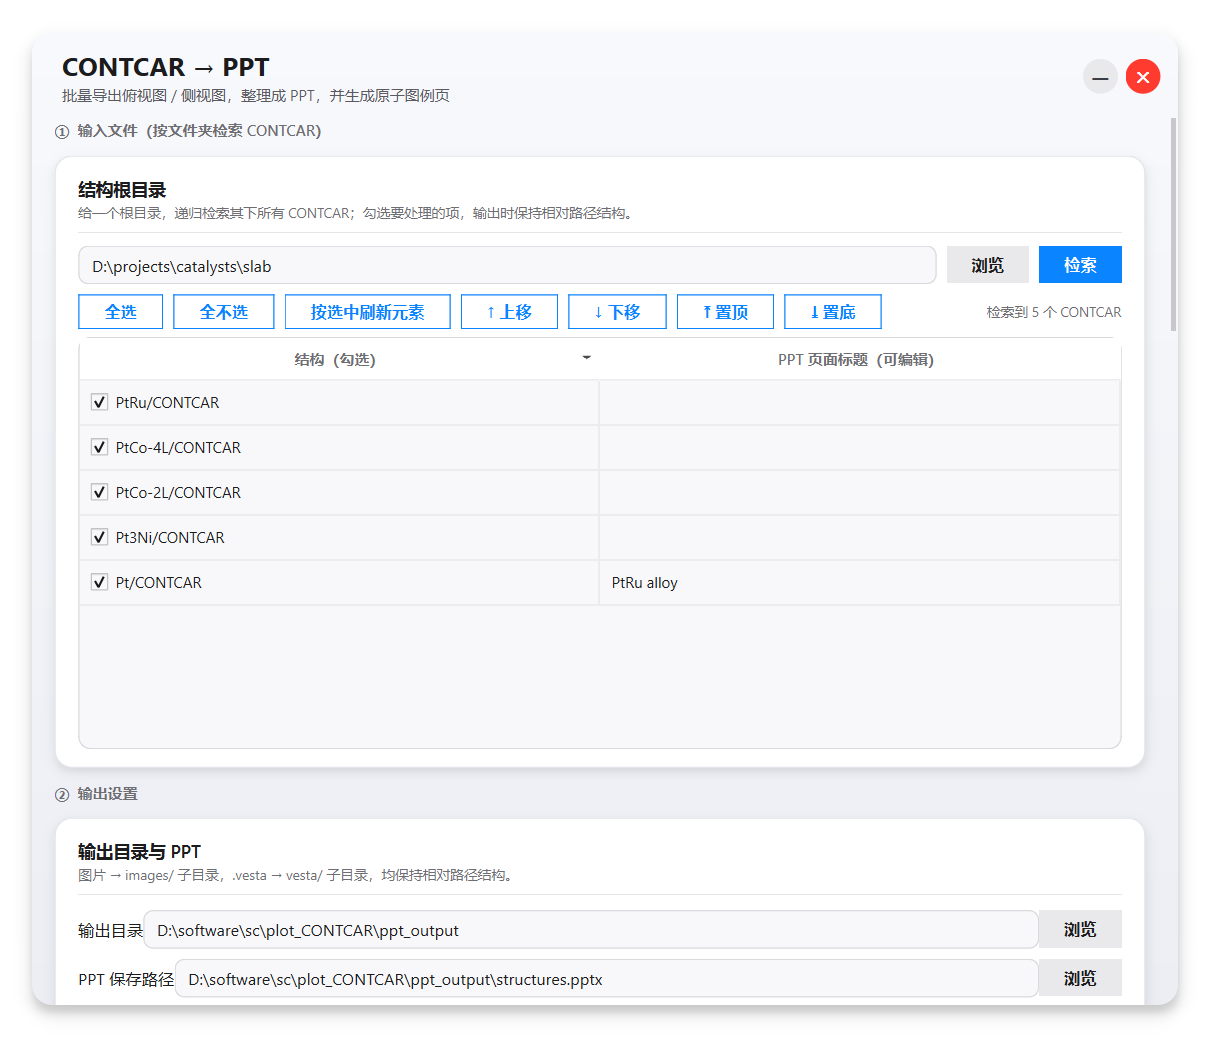
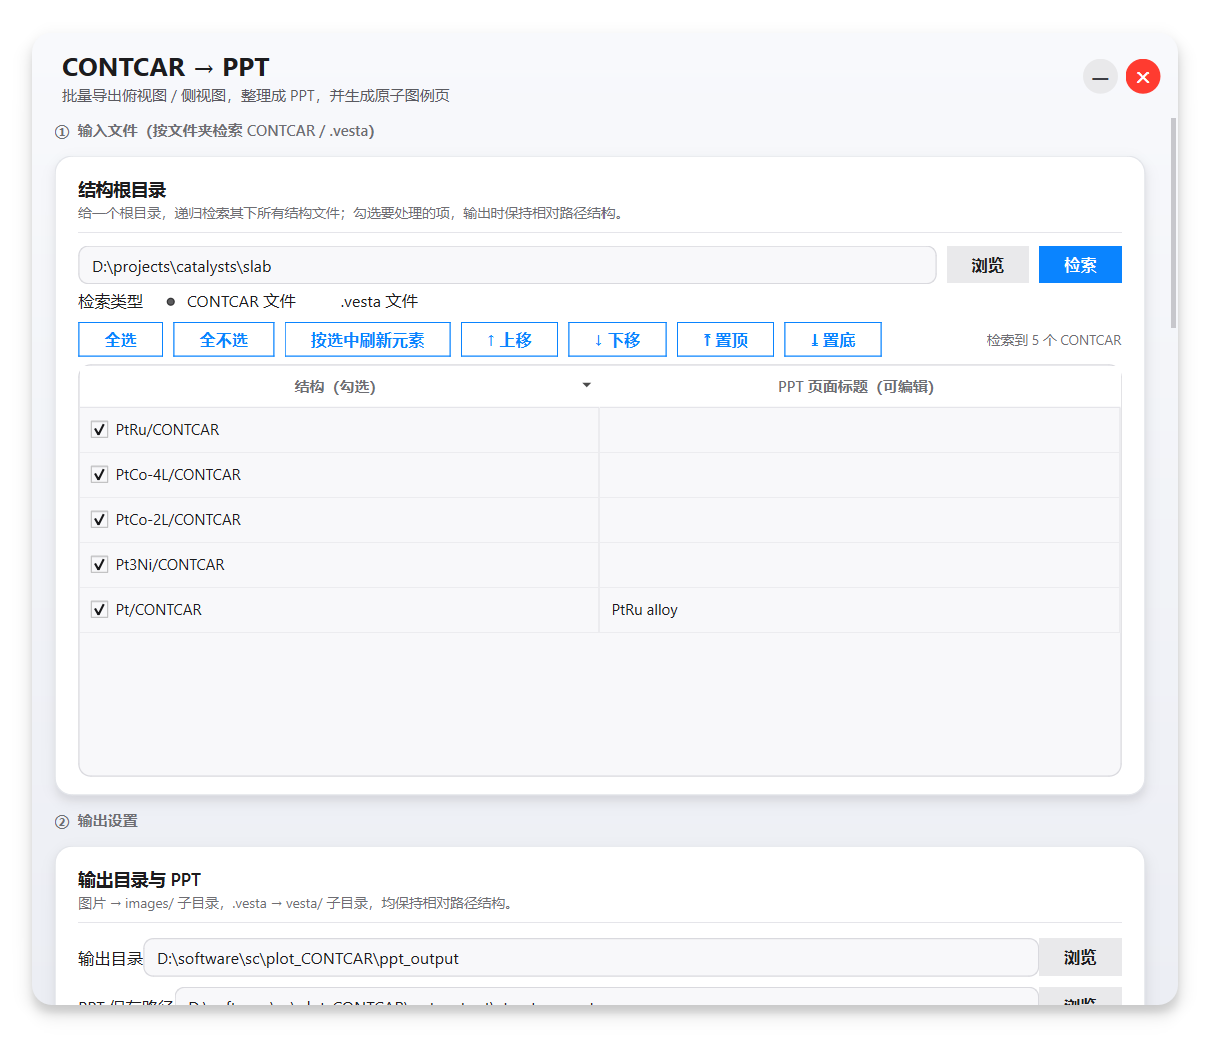
feat(gui): 检索支持 .vesta 单选；原子样式启用开关；窗口置顶；暂停/继续按钮

diff --git a/vesta_gui.py b/vesta_gui.py
@@ -69,6 +69,7 @@ from PySide6.QtWidgets import (
     QProgressBar, QPlainTextEdit, QFileDialog, QMessageBox, QColorDialog,
     QListWidget, QListWidgetItem, QTableWidget, QTableWidgetItem, QHeaderView,
     QAbstractItemView, QAbstractButton, QGraphicsDropShadowEffect, QSizePolicy,
+    QRadioButton, QButtonGroup,
 )
 
 # 复用核心工具
@@ -543,7 +544,7 @@ def add_legend_slide(prs, blank, legend, s):
 # ---------------------------------------------------------------------------
 # 批量处理（无界面依赖）
 # ---------------------------------------------------------------------------
-def run_batch(s, log, progress, stop_event):
+def run_batch(s, log, progress, stop_event, pause_event=None):
     """执行批量出图 + PPT 生成。log(level,msg) / progress(0..1) 为回调。"""
     out_dir = Path(s["out_dir"]).expanduser()
     img_dir = out_dir / "images"
@@ -589,9 +590,16 @@ def run_batch(s, log, progress, stop_event):
         done = 0
         ext = s["img_fmt"].lstrip(".")
 
+        def wait_pause():
+            """暂停时在此等待（可被停止打断）。"""
+            while (pause_event is not None and pause_event.is_set()
+                   and not stop_event.is_set()):
+                time.sleep(0.2)
+
         for idx, item in enumerate(s["files"]):
             if stop_event.is_set():
                 return False, "已停止（未生成完整 PPT）。"
+            wait_pause()
             src = Path(item["path"])
             rel_sub = item.get("rel", "")            # 相对子目录（posix，可为空）
             stem = item.get("stem") or src.stem or "structure"
@@ -605,7 +613,10 @@ def run_batch(s, log, progress, stop_event):
             log("info", f"[{idx+1}/{n_files}] 处理 {label}")
             try:
                 base_vesta = tmpdir / f"{idx}.vesta"
-                v.contcar_to_vesta(src, base_vesta)
+                if src.suffix.lower() == ".vesta":
+                    shutil.copy(src, base_vesta)          # 已是 .vesta，直接使用
+                else:
+                    v.contcar_to_vesta(src, base_vesta)
                 if base_modify:
                     v.modify_vesta(base_vesta, **base_modify)
 
@@ -653,6 +664,7 @@ def run_batch(s, log, progress, stop_event):
                     done += 1
                     progress(done / total)
 
+                wait_pause()
                 if s["do_side"] and not stop_event.is_set():
                     vf = tmpdir / f"{idx}_side.vesta"
                     shutil.copy(base_vesta, vf)
@@ -699,6 +711,9 @@ QLabel#CardTitle { font-size: 14px; font-weight: 600; color: #1C1C1E; background
 QLabel#CardSubtitle { font-size: 11px; color: #6E6E73; background: transparent; }
 QLabel#FieldLabel { font-size: 13px; color: #1C1C1E; background: transparent; }
 QLabel#HintLabel { font-size: 11px; color: #6E6E73; background: transparent; }
+
+QRadioButton { color: #1C1C1E; font-size: 13px; background: transparent; spacing: 6px; }
+QRadioButton::indicator { width: 15px; height: 15px; }
 
 QFrame#Card { background: #FFFFFF; border: 1px solid #E3E5EA; border-radius: 14px; }
 
@@ -947,15 +962,17 @@ class Worker(QObject):
     progress = Signal(float)
     done = Signal(bool, str)
 
-    def __init__(self, settings, stop_event):
+    def __init__(self, settings, stop_event, pause_event=None):
         super().__init__()
         self.settings = settings
         self.stop_event = stop_event
+        self.pause_event = pause_event
 
     @Slot()
     def run(self):
         try:
-            ok, msg = run_batch(self.settings, self._log, self._progress, self.stop_event)
+            ok, msg = run_batch(self.settings, self._log, self._progress,
+                                self.stop_event, self.pause_event)
         except Exception as exc:  # noqa: BLE001
             self._log("err", f"发生错误：{exc}")
             self._log("err", traceback.format_exc())
@@ -975,11 +992,13 @@ class Worker(QObject):
 class MainWindow(QWidget):
     def __init__(self):
         super().__init__()
-        self.setWindowFlags(Qt.FramelessWindowHint | Qt.Window)
+        self.setWindowFlags(Qt.FramelessWindowHint | Qt.Window
+                            | Qt.WindowStaysOnTopHint)
         self.setAttribute(Qt.WA_TranslucentBackground)
         self.resize(968, 830)
 
         self.stop_event = threading.Event()
+        self.pause_event = threading.Event()
         self.running = False
         self.thread = None
         self.worker = None
@@ -1099,12 +1118,12 @@ class MainWindow(QWidget):
     # ------------------------------------------------------------------ #
     def _build_sections(self):
         # ① 输入文件
-        self._section_label("①  输入文件（按文件夹检索 CONTCAR）")
+        self._section_label("①  输入文件（按文件夹检索 CONTCAR / .vesta）")
         card = self._card("结构根目录",
-                          "给一个根目录，递归检索其下所有 CONTCAR；勾选要处理的项，"
+                          "给一个根目录，递归检索其下所有结构文件；勾选要处理的项，"
                           "输出时保持相对路径结构。")
         in_row = QHBoxLayout()
-        in_row.setContentsMargins(18, 10, 18, 4)
+        in_row.setContentsMargins(18, 10, 18, 2)
         in_row.setSpacing(8)
         self.input_root = QLineEdit()
         self.input_root.setPlaceholderText("选择或粘贴一个文件夹路径…")
@@ -1116,6 +1135,25 @@ class MainWindow(QWidget):
         b_scan.clicked.connect(self._scan)
         in_row.addWidget(b_scan)
         card.layout().addLayout(in_row)
+
+        type_row = QHBoxLayout()
+        type_row.setContentsMargins(18, 2, 18, 4)
+        type_row.setSpacing(14)
+        tlbl = QLabel("检索类型")
+        tlbl.setObjectName("FieldLabel")
+        type_row.addWidget(tlbl)
+        self.radio_contcar = QRadioButton("CONTCAR 文件")
+        self.radio_vesta = QRadioButton(".vesta 文件")
+        self.radio_contcar.setChecked(True)
+        self.radio_group = QButtonGroup(self)
+        self.radio_group.addButton(self.radio_contcar)
+        self.radio_group.addButton(self.radio_vesta)
+        self.radio_contcar.toggled.connect(self._on_type_changed)
+        self.radio_vesta.toggled.connect(self._on_type_changed)
+        type_row.addWidget(self.radio_contcar)
+        type_row.addWidget(self.radio_vesta)
+        type_row.addStretch(1)
+        card.layout().addLayout(type_row)
 
         tool_row = QHBoxLayout()
         tool_row.setContentsMargins(18, 4, 18, 2)
@@ -1279,6 +1317,7 @@ class MainWindow(QWidget):
         self._section_label("⑤  原子半径 / 颜色（留空则用 VESTA 默认）")
         card = self._card("原子样式 ATOMT / SITET",
                           "只对列出的元素生效；未列出的元素保持 VESTA 默认样式。")
+        self._row(card, "启用原子样式处理", self._toggle(True, "apply_atom_style_var"))
         head = QHBoxLayout()
         head.setContentsMargins(18, 8, 18, 0)
         head.setSpacing(6)
@@ -1325,9 +1364,15 @@ class MainWindow(QWidget):
         run_row.setContentsMargins(18, 14, 18, 6)
         run_row.setSpacing(8)
         self.run_btn = self._pill("▶  开始处理", "green", height=40, name="run_btn")
+        self.pause_btn = self._pill("⏸  暂停处理", "gray", height=40, name="pause_btn")
+        self.resume_btn = self._pill("▶  继续处理", "accent", height=40, name="resume_btn")
         self.stop_btn = self._pill("■  停止", "red", height=40, name="stop_btn")
+        self.pause_btn.setEnabled(False)
+        self.resume_btn.setEnabled(False)
         self.stop_btn.setEnabled(False)
         run_row.addWidget(self.run_btn)
+        run_row.addWidget(self.pause_btn)
+        run_row.addWidget(self.resume_btn)
         run_row.addWidget(self.stop_btn)
         self.progress = QProgressBar()
         self.progress.setRange(0, 1000)
@@ -1336,6 +1381,8 @@ class MainWindow(QWidget):
         run_row.addWidget(self.progress, 1)
         card.layout().addLayout(run_row)
         self.run_btn.clicked.connect(self._on_run)
+        self.pause_btn.clicked.connect(self._on_pause)
+        self.resume_btn.clicked.connect(self._on_resume)
         self.stop_btn.clicked.connect(self._on_stop)
 
         log_wrap = QWidget()
@@ -1367,8 +1414,14 @@ class MainWindow(QWidget):
         self.root_path = Path(root)
         self.file_table.setSortingEnabled(False)
         self.file_table.setRowCount(0)
-        found = [p for p in sorted(self.root_path.rglob("*"))
-                 if p.is_file() and p.name.upper() == "CONTCAR"]
+        if self.radio_vesta.isChecked():
+            found = [p for p in sorted(self.root_path.rglob("*"))
+                     if p.is_file() and p.suffix.lower() == ".vesta"]
+            kind = ".vesta"
+        else:
+            found = [p for p in sorted(self.root_path.rglob("*"))
+                     if p.is_file() and p.name.upper() == "CONTCAR"]
+            kind = "CONTCAR"
         for p in found:
             rel = p.relative_to(self.root_path).as_posix()
             r = self.file_table.rowCount()
@@ -1385,9 +1438,14 @@ class MainWindow(QWidget):
         self.file_table.horizontalHeader().setSortIndicator(0, Qt.AscendingOrder)
         self.file_table.setSortingEnabled(True)
         self.file_table.sortItems(0, Qt.AscendingOrder)
-        self.scan_info.setText(f"检索到 {len(found)} 个 CONTCAR")
-        self._append_log(f"在 {root} 下检索到 {len(found)} 个 CONTCAR 文件。", "info")
+        self.scan_info.setText(f"检索到 {len(found)} 个 {kind}")
+        self._append_log(f"在 {root} 下检索到 {len(found)} 个 {kind} 文件。", "info")
         self._refresh_elements()
+
+    def _on_type_changed(self, checked):
+        # 切换文件类型时，若已有有效路径则自动重新检索
+        if checked and self.input_root.text().strip():
+            self._scan()
 
     def _on_header_clicked(self, col):
         # 点击表头按该列排序（手动上移/下移后也能恢复排序）
@@ -1467,7 +1525,12 @@ class MainWindow(QWidget):
             it = self.file_table.item(r, 0)
             if it is None or it.checkState() != Qt.Checked:
                 continue
-            for el in parse_contcar_elements(Path(it.data(Qt.UserRole))):
+            p = Path(it.data(Qt.UserRole))
+            if p.suffix.lower() == ".vesta":
+                seq = [x["element"] for x in parse_atomt(p)]
+            else:
+                seq = parse_contcar_elements(p)
+            for el in seq:
                 if el not in elems:
                     elems.append(el)
         return elems
@@ -1617,14 +1680,17 @@ class MainWindow(QWidget):
 
         self.running = True
         self.stop_event.clear()
+        self.pause_event.clear()
         self.run_btn.setEnabled(False)
+        self.pause_btn.setEnabled(True)
+        self.resume_btn.setEnabled(False)
         self.stop_btn.setEnabled(True)
         self.progress.setValue(0)
         self.log.clear()
         self._append_log("开始处理…", "info")
 
         self.thread = QThread(self)
-        self.worker = Worker(settings, self.stop_event)
+        self.worker = Worker(settings, self.stop_event, self.pause_event)
         self.worker.moveToThread(self.thread)
         self.thread.started.connect(self.worker.run)
         self.worker.log.connect(self._on_log)
@@ -1635,13 +1701,29 @@ class MainWindow(QWidget):
         self.thread.finished.connect(self.thread.deleteLater)
         self.thread.start()
 
+    def _on_pause(self):
+        self.pause_event.set()
+        self.pause_btn.setEnabled(False)
+        self.resume_btn.setEnabled(True)
+        self._append_log("已暂停，点「继续处理」恢复。", "warn")
+
+    def _on_resume(self):
+        self.pause_event.clear()
+        self.pause_btn.setEnabled(True)
+        self.resume_btn.setEnabled(False)
+        self._append_log("继续处理…", "info")
+
     def _on_stop(self):
         self.stop_event.set()
+        self.pause_event.clear()
         self._append_log("已请求停止，将在当前步骤结束后终止…", "warn")
 
     def _on_done(self, ok, msg):
         self.running = False
+        self.pause_event.clear()
         self.run_btn.setEnabled(True)
+        self.pause_btn.setEnabled(False)
+        self.resume_btn.setEnabled(False)
         self.stop_btn.setEnabled(False)
         self._append_log(msg, "ok" if ok else "err")
 
@@ -1698,7 +1780,7 @@ class MainWindow(QWidget):
             files.append({
                 "path": str(abspath),
                 "rel": rel_sub,
-                "stem": rel.name or abspath.stem,
+                "stem": rel.stem or rel.name or abspath.stem,
                 "label": title,
             })
 
@@ -1731,7 +1813,7 @@ class MainWindow(QWidget):
             "x_move": num(self.x_move_var, 0.0),
             "y_move": num(self.y_move_var, 0.0),
             "boundary": boundary,
-            "atom_params": atom_params,
+            "atom_params": atom_params if self.apply_atom_style_var.isChecked() else [],
             "legend": self.legend_var.isChecked(),
             "ball_cm": num(self.ball_cm_var, 1.8),
             "legend_cols": int(self.legend_cols_var.value()),

diff --git a/README.md b/README.md
@@ -44,7 +44,8 @@
 
 |   | 功能 | 说明 |
 | :-: | :--- | :--- |
-| 🗂 | **按目录检索** | 指定根目录，递归检索所有 `CONTCAR`；结果表可勾选、**标题可编辑**、**表头排序**与**上移/下移/置顶/置底** |
+| 🗂 | **按目录检索** | 指定根目录，递归检索所有 `CONTCAR` **或 `.vesta`**（单选）；结果表可勾选、**标题可编辑**、**表头排序**与**上移/下移/置顶/置底** |
+| 📄 | **支持 .vesta 输入** | 可直接检索并处理 `.vesta` 文件（跳过格式转换，按视图重新出图） |
 | 🌳 | **保持相对路径** | 导出的图片与 `.vesta` 完全镜像输入目录结构，便于归档对照 |
 | 🔭 | **俯视 / 侧视图** | 俯视图沿 *c* 轴、侧视图 *c* 轴竖直（可选沿 *a* / *b* 轴看） |
 | 📐 | **模型占图约 80%** | 按非白像素包围盒自动调整，让**模型本身**占满整图约 80%，不顶边也不偏小 |
@@ -56,6 +57,8 @@
 | 🧾 | **按视图导出 .vesta** | 每个结构输出 `CONTCAR_top.vesta` / `CONTCAR_side.vesta` |
 | 🖱 | **防误触** | 滚动页面时，鼠标停在下拉框 / 数值框上**不会误改**数值 |
 | 🪟 | **后台静默出图** | 用隐藏窗口（伪无头）调用 VESTA，屏幕不弹窗、可无人值守 |
+| ⏯ | **暂停 / 继续** | 处理过程中可随时暂停、继续，不丢进度 |
+| 📌 | **窗口置顶** | GUI 始终保持在最前，不会被 VESTA 窗口遮盖 |
 | 🕶 | **iOS 风格界面** | 无边框圆角弹窗、卡片阴影、滑动开关、胶囊按钮，支持高 DPI |
 | 📦 | **零配置启动** | 双击 `启动GUI.lnk` / `.vbs` 即可（无命令行黑框，带任务栏图标） |
 
@@ -183,13 +186,13 @@ PPT 每一页示例：
 
 | 区 | 名称 | 主要项 |
 | :-: | :--- | :--- |
-| ① | **输入文件** | 结构根目录（浏览 / 检索）、结果表（勾选 + **可编辑标题列**，**表头点击排序** + **上移/下移/置顶/置底**手动排序）、全选 / 全不选 / 按选中刷新元素 |
+| ① | **输入文件** | 结构根目录（浏览 / 检索）、**检索类型单选（CONTCAR / .vesta）**、结果表（勾选 + **可编辑标题列**，**表头点击排序** + **上移/下移/置顶/置底**手动排序）、全选 / 全不选 / 按选中刷新元素 |
 | ② | **输出设置** | 输出目录、**PPT 保存路径**、图片格式、画质 `scale`、超时、隐藏窗口、输出 `.vesta`、VESTA.exe 路径 |
 | ③ | **视图设置** | 生成俯视图 / 侧视图、侧视方向、额外旋转 X/Y/Z、**模型占图片比例**（默认 0.8）、**模型放大方式**、幻灯片图片排版 |
 | ④ | **VESTA 显示** | `COMPS` / `UCOLP` / `SBOND` 开关、成键容差、`scale_frac`、`x/y_move`、显示边界 `BOUND`（已标注 **a/b/c 轴**；默认 a、b 轴 `-0.05 ~ 1.05`，c 轴 `-0.05 ~ 0.95`） |
-| ⑤ | **原子样式** | 元素 / 半径 / 颜色（**点击色块用色轮取色**），检索后按结构元素自动填充（可增删） |
+| ⑤ | **原子样式** | **启用原子样式处理**开关（默认开）、元素 / 半径 / 颜色（**点击色块用色轮取色**），检索后按结构元素自动填充（可增删） |
 | ⑥ | **图例页** | 是否生成、球体直径、每行数量、是否标注半径、图例位置 |
-| ⑦ | **运行** | 开始 / 停止、进度条、实时日志 |
+| ⑦ | **运行** | 开始 / **暂停 / 继续** / 停止、进度条、实时日志 |
 
 ### 出图视角说明
 
@@ -373,6 +376,9 @@ VASP4 的 `CONTCAR` 第 6 行是原子数而非元素符号，无法自动识别
 - 📊 PPT：标题页 + 结构页（俯视 / 侧视，**等高对齐、无边框**）+ 原子图例页
 - 🎛 所有 VESTA 参数界面化；**禁用滚轮误改**下拉 / 数值框
 - 🪟 免黑框启动（`.lnk` / `.vbs` / `.bat`）；新增**程序图标**（窗口 / 任务栏 / 快捷方式）
+- 📄 检索类型支持 **CONTCAR / `.vesta` 单选**；`.vesta` 可直接处理（跳过转换）
+- ⏯ 运行中支持 **暂停 / 继续**；窗口**始终置顶**，不被 VESTA 遮盖
+- 🧬 原子样式新增 **启用开关**（默认开）
 
 ### v1.0.0
 - 首个正式版：`CONTCAR → VESTA 出图 + PPT + 原子图例`，iOS 风格 GUI、命令行与 Python API
